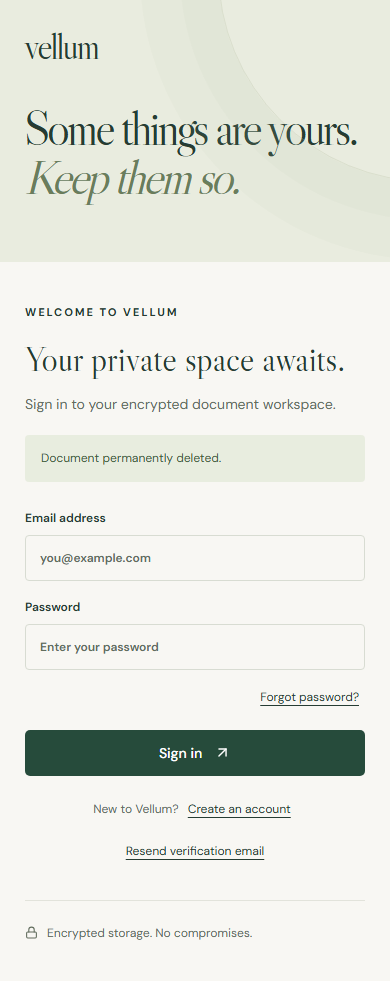
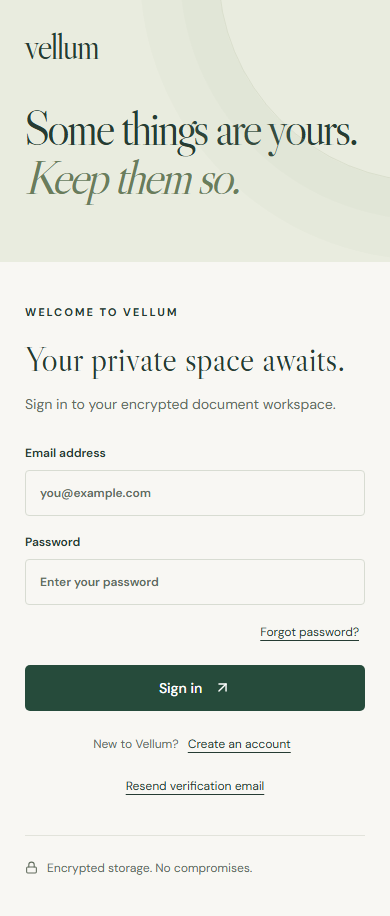
Clear workspace notifications on sign-out

diff --git a/web/app/page.js b/web/app/page.js
@@ -275,6 +275,10 @@ export default function Home() {
       T(null);
       U(null);
       D([]);
+      N("");
+      E("");
+      P(null);
+      M("login");
       V("vault");
     });
   }
